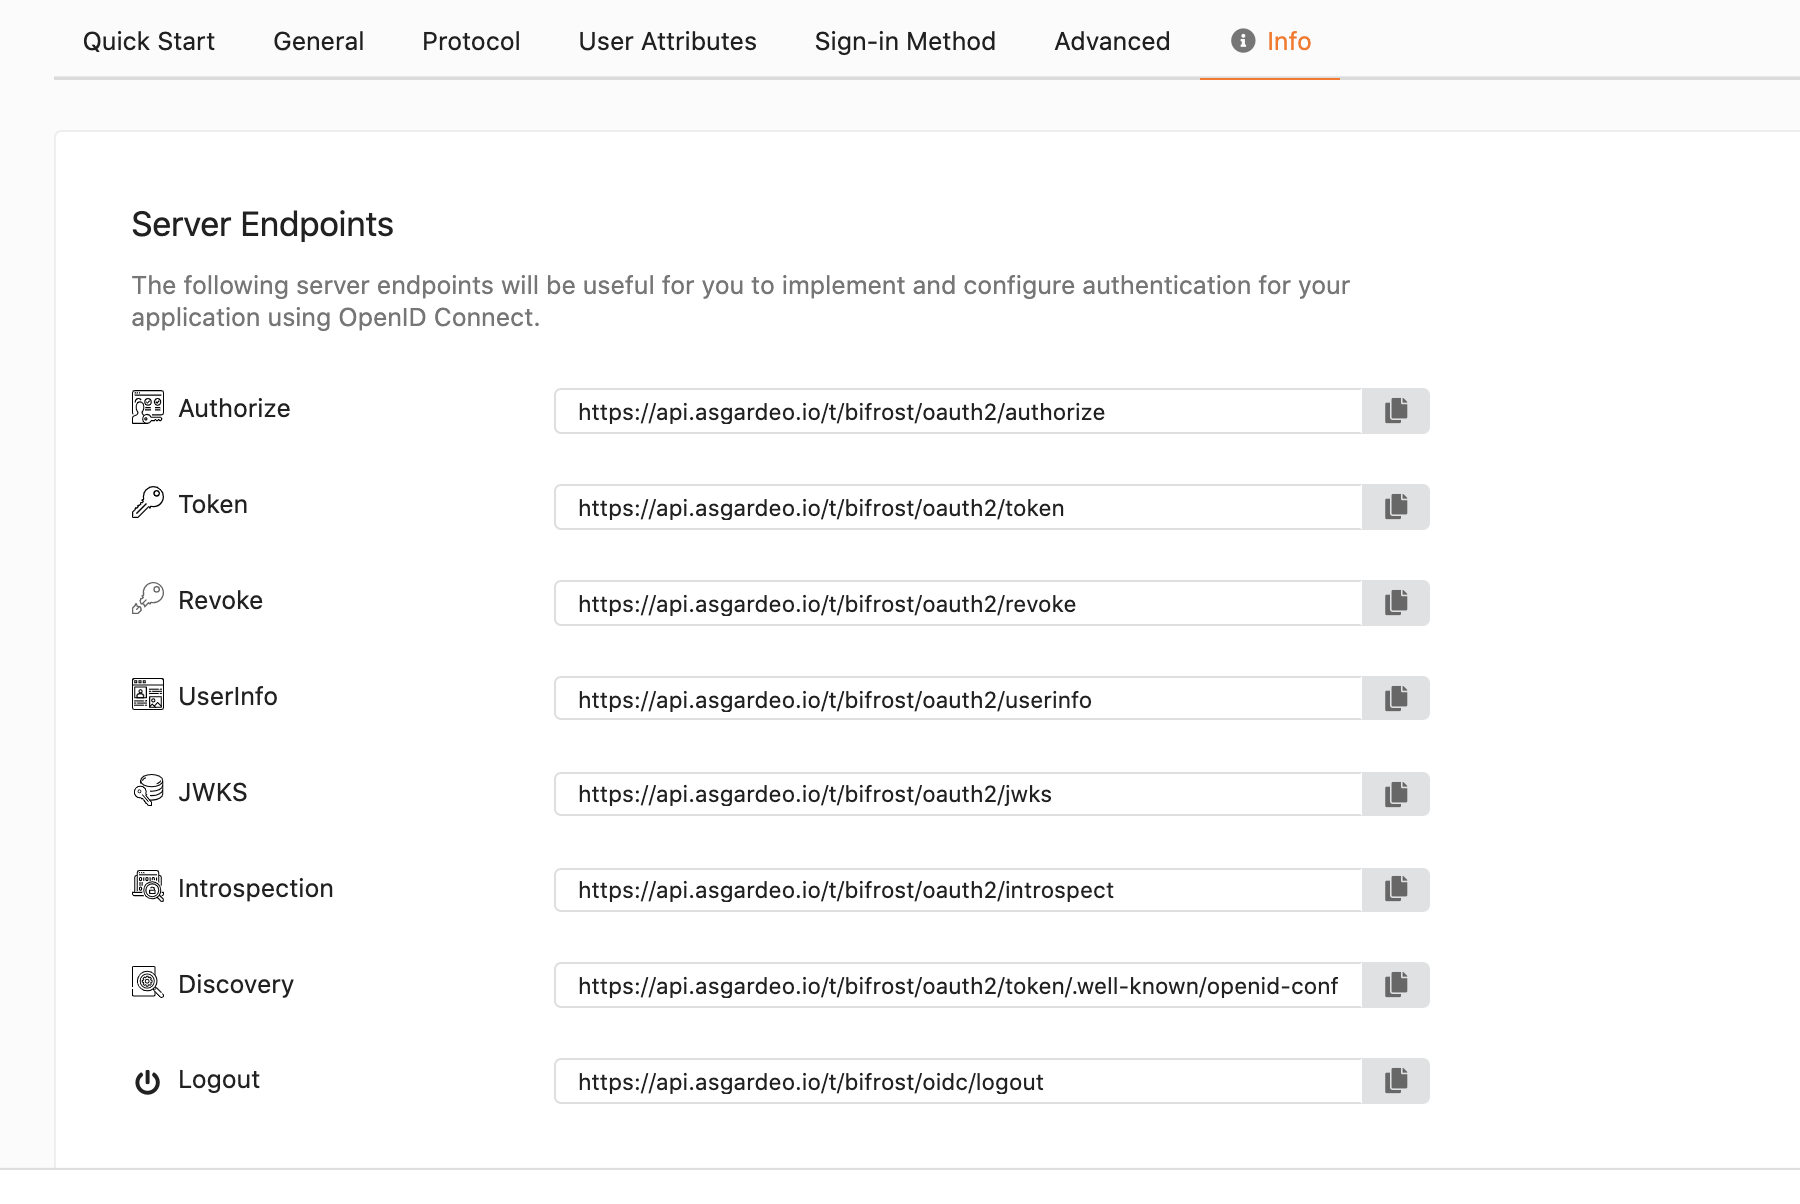
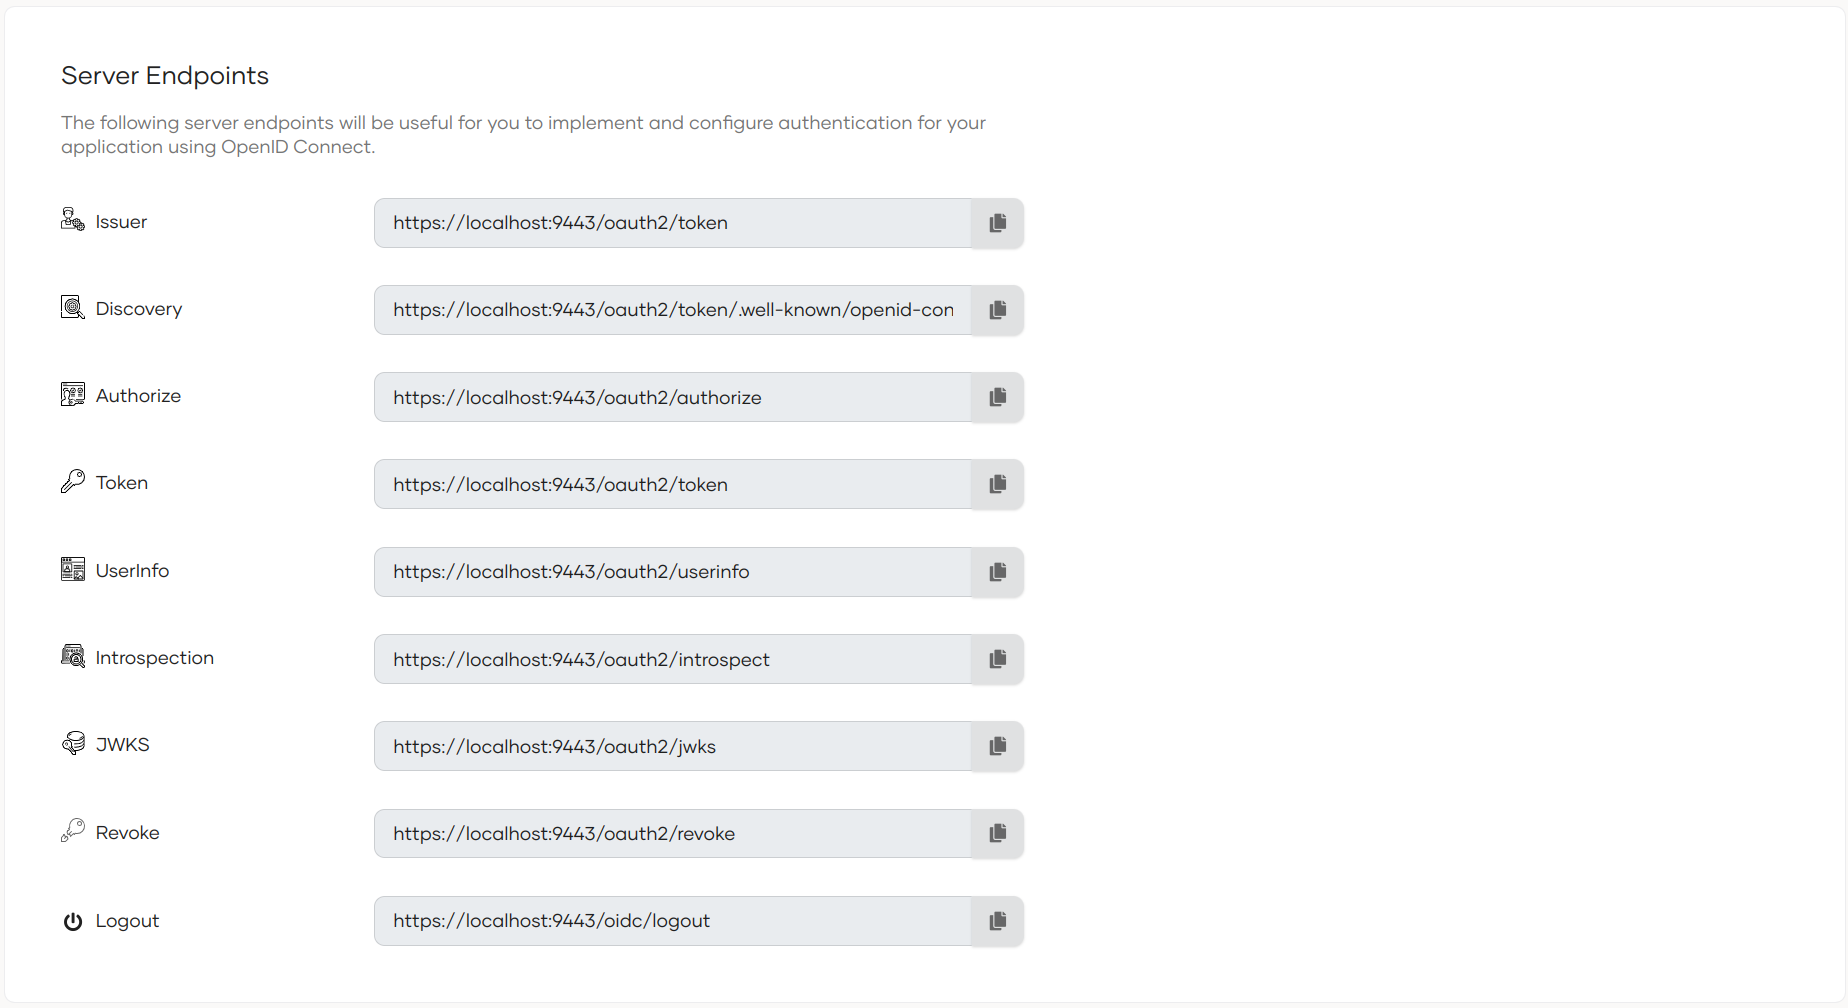
IS testing

diff --git a/en/includes/guides/authentication/oidc/implement-auth-code.md b/en/includes/guides/authentication/oidc/implement-auth-code.md
@@ -31,7 +31,7 @@ First, your app must initiate a login request to the authorization endpoint of {
     ---
     **Request sample**
     ``` shell
-    {{ product_url_sample }}/oauth2/authorize?response_type=code&    client_id=z8RB6ysdDZhe4QO0zJAQzKbi6P4a&scope=openid&redirect_uri=http://localhost:5000&login_hint=johnd@bifrost.com
+    {{ product_url_sample }}/oauth2/authorize?response_type=code&client_id=z8RB6ysdDZhe4QO0zJAQzKbi6P4a&scope=openid&redirect_uri=http://localhost:3000&login_hint=johnd@bifrost.com
     ```
 
 <!-- >!!! note
@@ -70,10 +70,8 @@ Once the user is successfully authenticated, {{ product_name }} redirects the us
 **Sample response**
 
 ``` 
-https://localhost:5000/?code=97c85a59-a758-3a56-95cd-e71a505b493d&session_state=a0c3bc89849ba0f236791f7fe76a837b7b4422fdc9aca16db394d19a28724a29.wQc7eSHSRrGNfECJRMhSAw
+https://localhost:3000/?code=97c85a59-a758-3a56-95cd-e71a505b493d&session_state=a0c3bc89849ba0f236791f7fe76a837b7b4422fdc9aca16db394d19a28724a29.wQc7eSHSRrGNfECJRMhSAw
 ```
-
-<br>
 
 ## Get tokens
 
@@ -86,7 +84,7 @@ After receiving the authorization code, the application has to exchange it to ge
 **Token endpoint**
 
 ```bash 
-https://api.asgardeo.io/t/<organization_name>/oauth2/token
+{{ product_url_format }}/oauth2/token
 ```
 
 **Token request**
@@ -100,7 +98,7 @@ When your application is a confidential client, it needs to identify itself to t
 
     === "cURL"
         ```bash
-        curl --location --request POST 'https://api.asgardeo.io/t/<organization_name>/oauth2/token' \
+        curl --location --request POST '{{ product_url_format }}/oauth2/token' \
         --header 'Content-Type: application/x-www-form-urlencoded' \
         --data-urlencode 'code={authorization_code}' \
         --data-urlencode 'grant_type=authorization_code' \
@@ -112,7 +110,7 @@ When your application is a confidential client, it needs to identify itself to t
     === "JavaScript - jQuery"
         ```js
         var settings = {
-            "url": "https://api.asgardeo.io/t/<organization_name>/oauth2/token",
+            "url": "{{ product_url_format }}/oauth2/token",
             "method": "POST",
             "timeout": 0,
             "headers": {
@@ -145,7 +143,7 @@ When your application is a confidential client, it needs to identify itself to t
         });
         var config = {
             method: 'post',
-            url: 'https://api.asgardeo.io/t/<orgaization_name>/oauth2/token',
+            url: '{{ product_url_format }}/oauth2/token',
             headers: {
                 'Content-Type': 'application/x-www-form-urlencoded'
             },
@@ -164,7 +162,7 @@ When your application is a confidential client, it needs to identify itself to t
 - Use **client_secret_basic**: The client secret is sent as an authorization header in the request (`Authorization: Basic BASE46_ENCODING<client_id:client_secret>`). See the example given below.
 
     ```bash
-    curl --location --request POST 'https://api.asgardeo.io/t/bifrost/oauth2/token' \
+    curl --location --request POST '{{ product_url_sample }}/oauth2/token' \
     --header 'Authorization: Basic ejhSQjZ5c2REWmhlNFFPMHpKQVF6S2JpNlA0YTp6MEM3OXpsb3B4OGk3QnlPdzhLMTVBOWRwbFlh' \
     --header 'Content-Type: application/x-www-form-urlencoded' \
     --data-urlencode 'code=97c85a59-a758-3a56-95cd-e71a505b493d' \

diff --git a/en/includes/guides/authentication/oidc/private-key-jwt-client-auth.md b/en/includes/guides/authentication/oidc/private-key-jwt-client-auth.md
@@ -26,12 +26,12 @@ Register the client application in {{ product_name }} as follows:
 
 1. Create an OIDC application:
 
-   - [Standard-based OIDC application]({{base_path}}/guides/applications/register-standard-based-app/)
-   - [OIDC web application]({{base_path}}/guides/applications/register-oidc-web-app/)
+    - [Standard-based OIDC application]({{base_path}}/guides/applications/register-standard-based-app/)
+    - [OIDC web application]({{base_path}}/guides/applications/register-oidc-web-app/)
 
 2. Go to the **Protocol** tab of the new application and configure the required grant type.
 
-   ![oidc protocols]({{base_path}}/assets/img/guides/applications/oidc/oidc_protocols.png)
+    ![oidc protocols]({{base_path}}/assets/img/guides/applications/oidc/oidc_protocols.png)
 
 ## Prepare the private key and public key
 
@@ -97,7 +97,7 @@ Prepare the JSON payload required by the authorization server for client authent
 "exp": 1643650350,
 "iat": 1643650346,
 "jti": "10003",
-"aud": "https://api.asgardeo.io/t/<organization_name>/oauth2/token"
+"aud": "{{ product_url_format }}/oauth2/token"
 }
 ```
 
@@ -118,7 +118,7 @@ Listed below are the main steps for invoking the token endpoint and acquiring an
 3. Authorization server extracts the signature using the public key and authenticates the client.
 4. The access token is granted if the client is successfully authenticated.
 
-Let’s look at how this works for different grant types.
+Let's look at how this works for different grant types.
 
 ### Authorization code flow
 
@@ -127,13 +127,13 @@ If you are implementing the authorization code flow, you have enabled **code** a
 1. First, invoke the authorization endpoint in {{ product_name }} and get an authorization code.
 
     ``` bash
-    https://api.asgardeo.io/t/<organization_name>/oauth2/authorize?scope={scope}&response_type=code&redirect_uri={redirect_uri}&client_id={client_id}
+    {{ product_url_format }}/oauth2/authorize?scope={scope}&response_type=code&redirect_uri={redirect_uri}&client_id={client_id}
     ```
 
 2. Invoke the token endpoint and get the access token.
 
     ``` bash
-    curl --location --request POST 'https://api.asgardeo.io/t/{organization_name}/oauth2/token' \
+    curl --location --request POST '{{ product_url_format }}/oauth2/token' \
     --header 'Content-Type: application/x-www-form-urlencoded' \
     --data-urlencode 'code={authorization_code}' \
     --data-urlencode 'grant_type=authorization_code' \
@@ -184,7 +184,7 @@ If you are implementing the authorization code flow, you have enabled **code** a
 If you are implementing the client credentials flow, you have enabled **client credentials** as the grant type when registering your application. You can now send the following requests to get the access token.
 
 ``` bash
-curl --location --request POST 'https://api.asgardeo.io/t/<organization_name>/oauth2/token' \
+curl --location --request POST '{{ product_url_format }}/oauth2/token' \
 --header 'Content-Type: application/x-www-form-urlencoded' \
 --data-urlencode 'grant_type=client_credentials’ \
 --data-urlencode 'client_assertion_type=urn:ietf:params:oauth:client-assertion-type:jwt-bearer'\

diff --git a/en/includes/guides/authentication/oidc/discover-oidc-configs.md b/en/includes/guides/authentication/oidc/discover-oidc-configs.md
@@ -19,12 +19,12 @@ Applications can dynamically discover the OpenID Connect identity provider metad
 
 **Issuer of {{ product_name }}**
 ```bash
-api.asgardeo.io
+{{ product_url_format }}/oauth2/token
 ```
 
 **Discovery endpoint of {{ product_name }}**
 ```bash
-https://api.asgardeo.io/t/<organization_name>/oauth2/token/.well-known/openid-configuration
+{{ product_url_format }}/oauth2/token/.well-known/openid-configuration
 ```
 
 **Sample request**
@@ -32,14 +32,14 @@ https://api.asgardeo.io/t/<organization_name>/oauth2/token/.well-known/openid-co
 === "cURL"
 
     ```bash  
-    curl --location --request GET 'https://api.asgardeo.io/t/bifrost/oauth2/token/.well-known/openid-configuration'
+    curl --location --request GET '{{ product_url_sample }}/oauth2/token/.well-known/openid-configuration'
     ```
 
 === "JavaScript - jQuery"
 
     ```js 
     var settings = {
-        "url": "https://api.asgardeo.io/t/bifrost/oauth2/token/.well-known/openid-configuration",
+        "url": "{{ product_url_sample }}/oauth2/token/.well-known/openid-configuration",
         "method": "GET",
         "timeout": 0,
     };
@@ -56,7 +56,7 @@ https://api.asgardeo.io/t/<organization_name>/oauth2/token/.well-known/openid-co
 
     var config = {
         method: 'get',
-        url: 'https://api.asgardeo.io/t/bifrost/oauth2/token/.well-known/openid-configuration',
+        url: '{{ product_url_sample }}/oauth2/token/.well-known/openid-configuration',
         headers: {}
     };
 
@@ -72,14 +72,14 @@ https://api.asgardeo.io/t/<organization_name>/oauth2/token/.well-known/openid-co
 **Sample response**
 ```json 
 {
-   "introspection_endpoint" : "https://api.asgardeo.io/t/bifrost/oauth2/introspect",
-   "end_session_endpoint" : "https://api.asgardeo.io/t/bifrost/oidc/logout",
-   "registration_endpoint" : "https://api.asgardeo.io/t/bifrost/api/identity/oauth2/dcr/v1.0/register",
-   "token_endpoint" : "https://api.asgardeo.io/t/bifrost/oauth2/token",
-   "jwks_uri" : "https://api.asgardeo.io/t/bifrost/oauth2/jwks",
-   "revocation_endpoint" : "https://api.asgardeo.io/t/bifrost/oauth2/revoke",
-   "authorization_endpoint" : "https://api.asgardeo.io/t/bifrost/oauth2/authorize",
-   "issuer" : "https://api.asgardeo.io/t/bifrost/oauth2/token"
+   "introspection_endpoint" : "{{ product_url_sample }}/oauth2/introspect",
+   "end_session_endpoint" : "{{ product_url_sample }}/oidc/logout",
+   "registration_endpoint" : "{{ product_url_sample }}/api/identity/oauth2/dcr/v1.0/register",
+   "token_endpoint" : "{{ product_url_sample }}/oauth2/token",
+   "jwks_uri" : "{{ product_url_sample }}/oauth2/jwks",
+   "revocation_endpoint" : "{{ product_url_sample }}/oauth2/revoke",
+   "authorization_endpoint" : "{{ product_url_sample }}/oauth2/authorize",
+   "issuer" : "{{ product_url_sample }}/oauth2/token"
 }
 ```
 

diff --git a/en/identity-server/7.0.0/docs/guides/authentication/oidc/index.md b/en/identity-server/7.0.0/docs/guides/authentication/oidc/index.md
@@ -1,2 +1,50 @@
-{% set product_name = "WSO2 Identity Server" %}
-{% include "../../../../../../includes/guides/authentication/oidc/index.md" %}
+# Configure OIDC Flows
+
+Learn how to discover the OIDC endpoints in your WSO2 Identity Server organization and then use them to implement OIDC flows in your applications.
+
+## Discover the OIDC endpoints
+
+This section covers how you can configure OIDC-based login for your single page application by discovering the required OIDC endpoints and configuring them in the WSO2 Identity Server Console.
+
+[Discover OIDC endpoints]({{base_path}}/guides/authentication/oidc/discover-oidc-configs/) has detailed instructions on this.
+
+
+## Implement authorization code grant in apps
+
+The guides listed below will help you understand the OIDC login flow using the authorization code flow.
+
+- [Implement authorization code flow]({{base_path}}/guides/authentication/oidc/implement-auth-code/)
+
+- [Implement authorization code flow with PKCE]({{base_path}}/guides/authentication/oidc/implement-auth-code-with-pkce/)
+
+- [Implement private key JWT client authentication for OIDC]({{base_path}}/guides/authentication/oidc/private-key-jwt-client-auth/)
+
+## Validate ID tokens
+
+This section explains how the signature and the claims are verifieed in the ID token that is sent by WSO2 Identity Server to an application.
+
+[Validate ID tokens]({{base_path}}/guides/authentication/oidc/validate-id-tokens/) has detailed instructions on this.
+
+## Request user information
+
+When WSO2 Identity Server sends the ID token to an application, there is user information encoded within it. This can be obtained using the userinfo endpoint.
+
+[Request user information]({{base_path}}/guides/authentication/oidc/request-user-info/) has detailed instructions on this.
+
+## Token validation by resource servers
+
+WSO2 Identity Server provides the '/oauth2/introspect' endpoint to perform token validation. Using this, the resource server can verify the access token before authorizing the access.
+
+[Token validation by resource servers]({{base_path}}/guides/authentication/oidc/token-validation-resource-server/) has detailed instructions on this.
+
+## Revoke access tokens
+
+The token revocation endpoint can revoke any access granted to both confidential clients such as web apps and public clients such as the SPAs or mobile apps.
+
+[Revoke access tokens]({{base_path}}/guides/authentication/oidc/revoke-tokens/) has detailed instructions on this.
+
+## Add logout to application
+
+The logout endpoint is used to terminate the user session at WSO2 Identity Server and to log the user out.
+
+[Add logout to application]({{base_path}}/guides/authentication/oidc/add-logout/) has detailed instructions on this.

diff --git a/en/includes/guides/authentication/oidc/implement-auth-code-with-pkce.md b/en/includes/guides/authentication/oidc/implement-auth-code-with-pkce.md
@@ -26,19 +26,19 @@ First, your app must initiate a login request to {{ product_name }}. After redir
 **Authorization endpoint**
 
 ```bash 
-https://api.asgardeo.io/t/<organization_name>/oauth2/authorize
+{{ product_url_format }}/oauth2/authorize
 ```
 
 **Request format**
 
 ```bash   
-https://api.asgardeo.io/t/<organization_name>/oauth2/authorize?scope={scope}&response_type=code&redirect_uri={redirect_uri}&client_id={client_id}&code_challenge=<code_challenge>&code_challenge_method=<code_challenge_method>
+{{ product_url_format }}/oauth2/authorize?scope={scope}&response_type=code&redirect_uri={redirect_uri}&client_id={client_id}&code_challenge=<code_challenge>&code_challenge_method=<code_challenge_method>
 ```
 
 **Sample request**
 
 ```bash   
-https://api.asgardeo.io/t/bifrost/oauth2/authorize?scope=openid&response_type=code&redirect_uri=https://localhost:5000&client_id=fv_LScHaB83PN4VPX1cHufphtHQa&code_challenge_method=S256&code_challenge=IMbNq8j9HZBlbLuZ4nHcYOv1ZkRF5TVNAfVIGyeUsi0
+{{ product_url_sample }}/oauth2/authorize?scope=openid&response_type=code&redirect_uri=https://localhost:5000&client_id=fv_LScHaB83PN4VPX1cHufphtHQa&code_challenge_method=S256&code_challenge=IMbNq8j9HZBlbLuZ4nHcYOv1ZkRF5TVNAfVIGyeUsi0
 ```
 
 <br>
@@ -101,7 +101,7 @@ After receiving the authorization code, the application has to exchange it to ge
 **Token endpoint**
 
 ```bash 
-https://api.asgardeo.io/t/<organization_name>/oauth2/token
+{{ product_url_format }}/oauth2/token
 ```
 
 **Token request**
@@ -120,7 +120,7 @@ https://api.asgardeo.io/t/<organization_name>/oauth2/token
 === "JavaScript - jQuery"
     ```js
     var settings = {
-        "url": "https://api.asgardeo.io/t/bifrost/oauth2/token",
+        "url": "{{ product_url_sample }}/oauth2/token",
         "method": "POST",
         "timeout": 0,
         "headers": {
@@ -153,7 +153,7 @@ https://api.asgardeo.io/t/<organization_name>/oauth2/token
     });
     var config = {
         method: 'post',
-        url: 'https://api.asgardeo.io/t/bifrost/oauth2/token',
+        url: '{{ product_url_sample }}/oauth2/token',
         headers: {
             'Content-Type': 'application/x-www-form-urlencoded'
         },
@@ -173,7 +173,7 @@ https://api.asgardeo.io/t/<organization_name>/oauth2/token
 
 === "cURL"
     ```bash 
-    curl --location --request POST 'https://api.asgardeo.io/t/bifrost/oauth2/token' \
+    curl --location --request POST '{{ product_url_sample }}/oauth2/token' \
     --header 'Content-Type: application/x-www-form-urlencoded' \
     --data-urlencode 'code=60cb4ba7-b7b2-3f2f-8319-58122f1b2f5d' \
     --data-urlencode 'grant_type=authorization_code' \

diff --git a/en/identity-server/7.0.0/docs/guides/authentication/oidc/implement-auth-code.md b/en/identity-server/7.0.0/docs/guides/authentication/oidc/implement-auth-code.md
@@ -1,4 +1,4 @@
 {% set product_name = "WSO2 Identity Server" %}
-{% set product_url_format = "https://{host}:{port}" %}
+{% set product_url_format = "https://localhost:9443" %}
 {% set product_url_sample = "https://localhost:9443" %}
 {% include "../../../../../../includes/guides/authentication/oidc/implement-auth-code.md" %}

diff --git a/en/identity-server/7.0.0/docs/guides/authentication/oidc/discover-oidc-configs.md b/en/identity-server/7.0.0/docs/guides/authentication/oidc/discover-oidc-configs.md
@@ -1,2 +1,5 @@
 {% set product_name = "WSO2 Identity Server" %}
+{% set product_url = "https://localhost:9443" %}
+{% set product_url_format = "https://localhost:9443" %}
+{% set product_url_sample = "https://localhost:9443" %}
 {% include "../../../../../../includes/guides/authentication/oidc/discover-oidc-configs.md" %}

diff --git a/en/asgardeo/docs/guides/authentication/oidc/token-validation-resource-server.md b/en/asgardeo/docs/guides/authentication/oidc/token-validation-resource-server.md
@@ -1,2 +1,4 @@
 {% set product_name = "Asgardeo" %}
+{% set product_url_format = "https://api.asgardeo.io/t/{organization_name}" %}
+{% set product_url_sample = "https://api.asgardeo.io/t/bifrost" %}
 {% include "../../../../../includes/guides/authentication/oidc/token-validation-resource-server.md" %}

diff --git a/en/asgardeo/docs/guides/authentication/oidc/implement-auth-code-with-pkce.md b/en/asgardeo/docs/guides/authentication/oidc/implement-auth-code-with-pkce.md
@@ -1,2 +1,4 @@
 {% set product_name = "Asgardeo" %}
+{% set product_url_format = "https://api.asgardeo.io/t/{organization_name}" %}
+{% set product_url_sample = "https://api.asgardeo.io/t/bifrost" %}
 {% include "../../../../../includes/guides/authentication/oidc/implement-auth-code-with-pkce.md" %}

diff --git a/en/asgardeo/docs/guides/authentication/oidc/private-key-jwt-client-auth.md b/en/asgardeo/docs/guides/authentication/oidc/private-key-jwt-client-auth.md
@@ -1,2 +1,4 @@
 {% set product_name = "Asgardeo" %}
+{% set product_url_format = "https://api.asgardeo.io/t/{organization_name}" %}
+{% set product_url_sample = "https://api.asgardeo.io/t/bifrost" %}
 {% include "../../../../../includes/guides/authentication/oidc/private-key-jwt-client-auth.md" %}

diff --git a/en/asgardeo/docs/guides/authentication/oidc/discover-oidc-configs.md b/en/asgardeo/docs/guides/authentication/oidc/discover-oidc-configs.md
@@ -1,2 +1,4 @@
 {% set product_name = "Asgardeo" %}
+{% set product_url_format = "https://api.asgardeo.io/t/{organization_name}" %}
+{% set product_url_sample = "https://api.asgardeo.io/t/bifrost" %}
 {% include "../../../../../includes/guides/authentication/oidc/discover-oidc-configs.md" %}

diff --git a/en/asgardeo/docs/guides/authentication/oidc/validate-id-tokens.md b/en/asgardeo/docs/guides/authentication/oidc/validate-id-tokens.md
@@ -1,2 +1,4 @@
 {% set product_name = "Asgardeo" %}
+{% set product_url_format = "https://api.asgardeo.io/t/{organization_name}" %}
+{% set product_url_sample = "https://api.asgardeo.io/t/bifrost" %}
 {% include "../../../../../includes/guides/authentication/oidc/validate-id-tokens.md" %}
